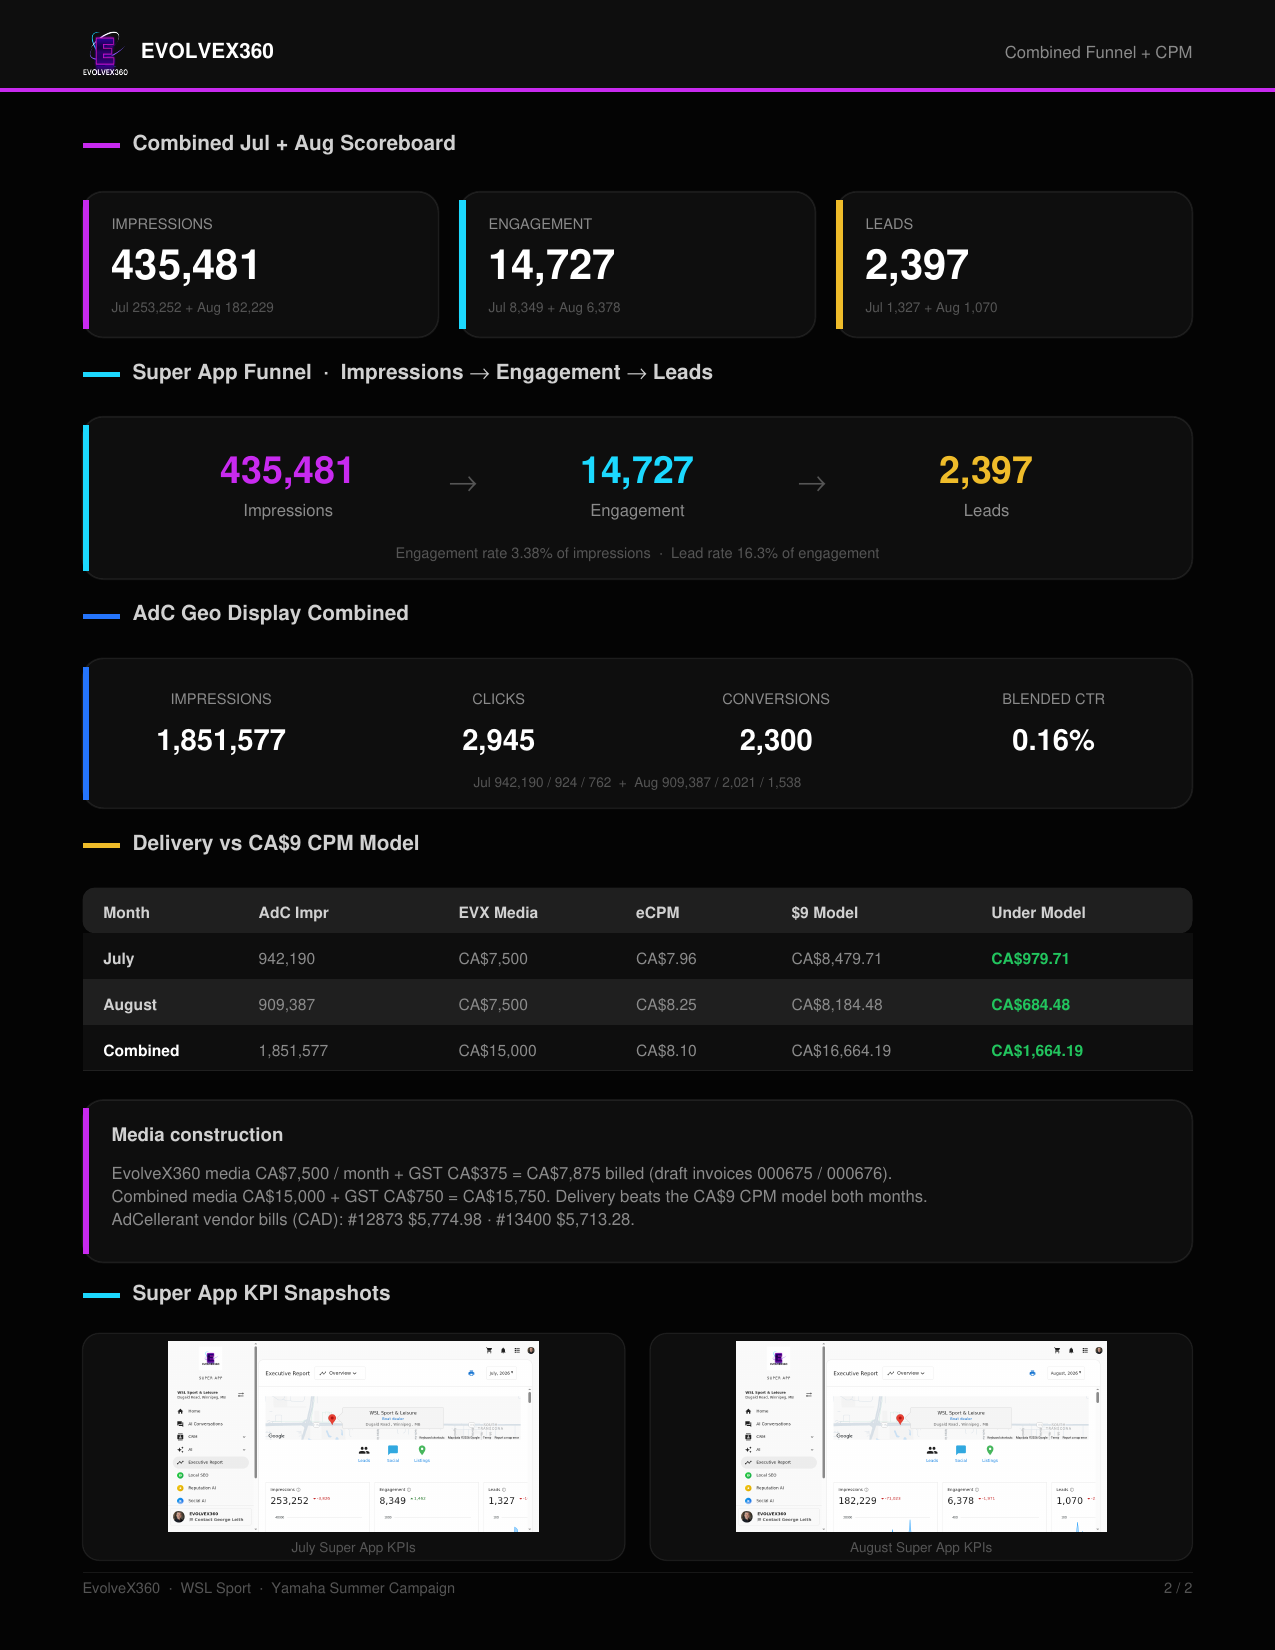
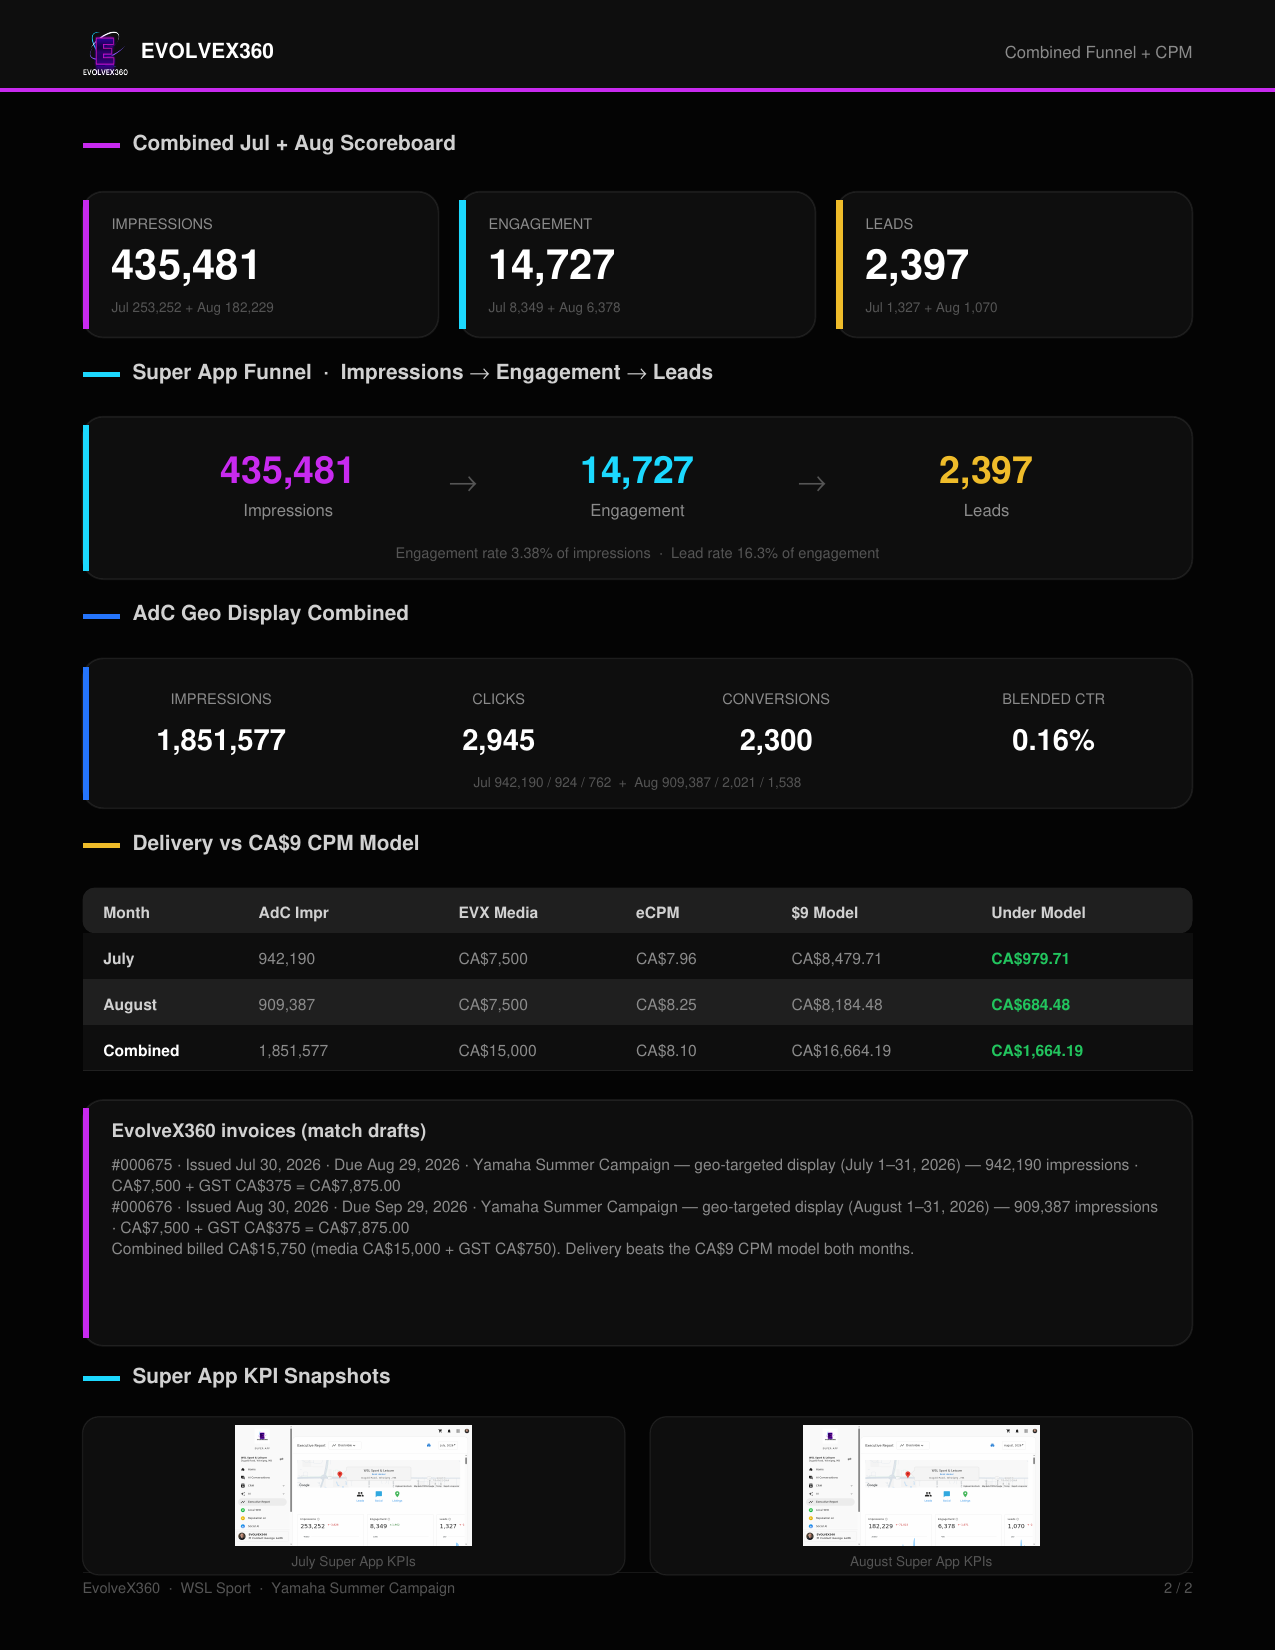
WSL Yamaha report: match EVX invoices 000675/000676
Align partner PDF and page billing to draft invoices: CA$7,500 + GST CA$375 = CA$7,875 each, geo-targeted display line items and impression counts. Drop AdC vendor bills from client-facing copy.

diff --git a/wsl-yamaha/index.html b/wsl-yamaha/index.html
@@ -131,7 +131,7 @@
     <div class="wrap">
       <p class="kicker">Partner performance · July + August 2026</p>
       <h1>WSL Sport · Yamaha Summer Campaign</h1>
-      <p class="lede">Super App funnel outcomes layered with geo-targeted display delivery. Model CPM locked at CA$9.</p>
+      <p class="lede">Super App funnel outcomes layered with geo-targeted display delivery. Billing matches EvolveX360 invoices #000675 and #000676 (CA$7,875 each). Model CPM locked at CA$9.</p>
       <div class="meta">
         <span><strong>Dealer</strong> WSL Sport Winnipeg</span>
         <span><strong>Account</strong> AG-5676GRKHF6</span>
@@ -154,7 +154,7 @@
           <div class="kpi"><div class="label">Leads</div><div class="val">1,327</div></div>
         </div>
         <p class="strip"><strong>Display delivery:</strong> 942,190 impr · 924 clicks · 0.10% CTR · 762 conversions</p>
-        <p class="ecpm">EVX media CA$7,500 · eCPM CA$7.96 · $9 model CA$8,479.71</p>
+        <p class="ecpm"><strong>Invoice #000675</strong> · Issued Jul 30 · Due Aug 29<br>Yamaha Summer Campaign — geo-targeted display (July 1–31, 2026) — 942,190 impressions<br>CA$7,500 + GST CA$375 = <strong>CA$7,875.00</strong> due · eCPM CA$7.96 · $9 model CA$8,479.71</p>
       </article>
       <article class="card">
         <h2>August 2026</h2>
@@ -164,7 +164,7 @@
           <div class="kpi"><div class="label">Leads</div><div class="val">1,070</div></div>
         </div>
         <p class="strip"><strong>Display delivery:</strong> 909,387 impr · 2,021 clicks · 0.22% CTR · 1,538 conversions</p>
-        <p class="ecpm">EVX media CA$7,500 · eCPM CA$8.25 · $9 model CA$8,184.48</p>
+        <p class="ecpm"><strong>Invoice #000676</strong> · Issued Aug 30 · Due Sep 29<br>Yamaha Summer Campaign — geo-targeted display (August 1–31, 2026) — 909,387 impressions<br>CA$7,500 + GST CA$375 = <strong>CA$7,875.00</strong> due · eCPM CA$8.25 · $9 model CA$8,184.48</p>
       </article>
     </div>
   </section>
@@ -209,7 +209,7 @@
         </tr>
       </tbody>
     </table>
-    <p style="margin-top:1rem;font-size:0.9rem;">With GST (5%): draft invoices <strong style="color:var(--ex-text-h)">#000675</strong> and <strong style="color:var(--ex-text-h)">#000676</strong> at <strong style="color:var(--ex-text-h)">CA$7,875</strong> each · combined billed <strong style="color:var(--ex-text-h)">CA$15,750</strong>.</p>
+    <p style="margin-top:1rem;font-size:0.9rem;">EvolveX360 invoices match the drafts: <strong style="color:var(--ex-text-h)">#000675</strong> (Jul 30 / due Aug 29) and <strong style="color:var(--ex-text-h)">#000676</strong> (Aug 30 / due Sep 29) — each <strong style="color:var(--ex-text-h)">CA$7,500 + GST CA$375 = CA$7,875</strong> for geo-targeted display · combined billed <strong style="color:var(--ex-text-h)">CA$15,750</strong>.</p>
   </section>
 
   <section class="wrap section" id="report">
